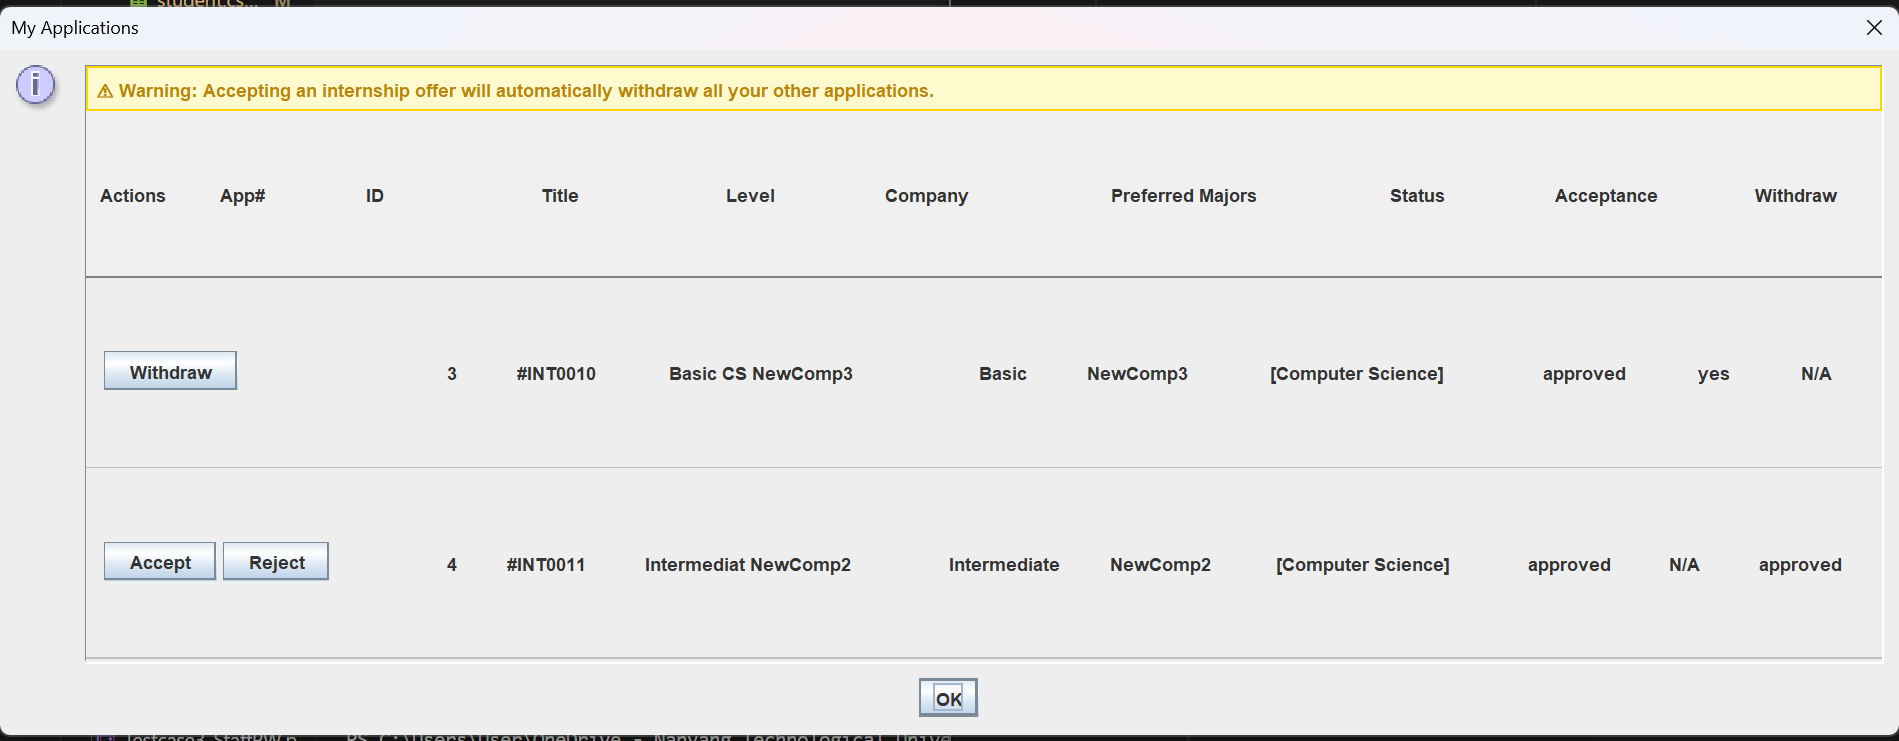
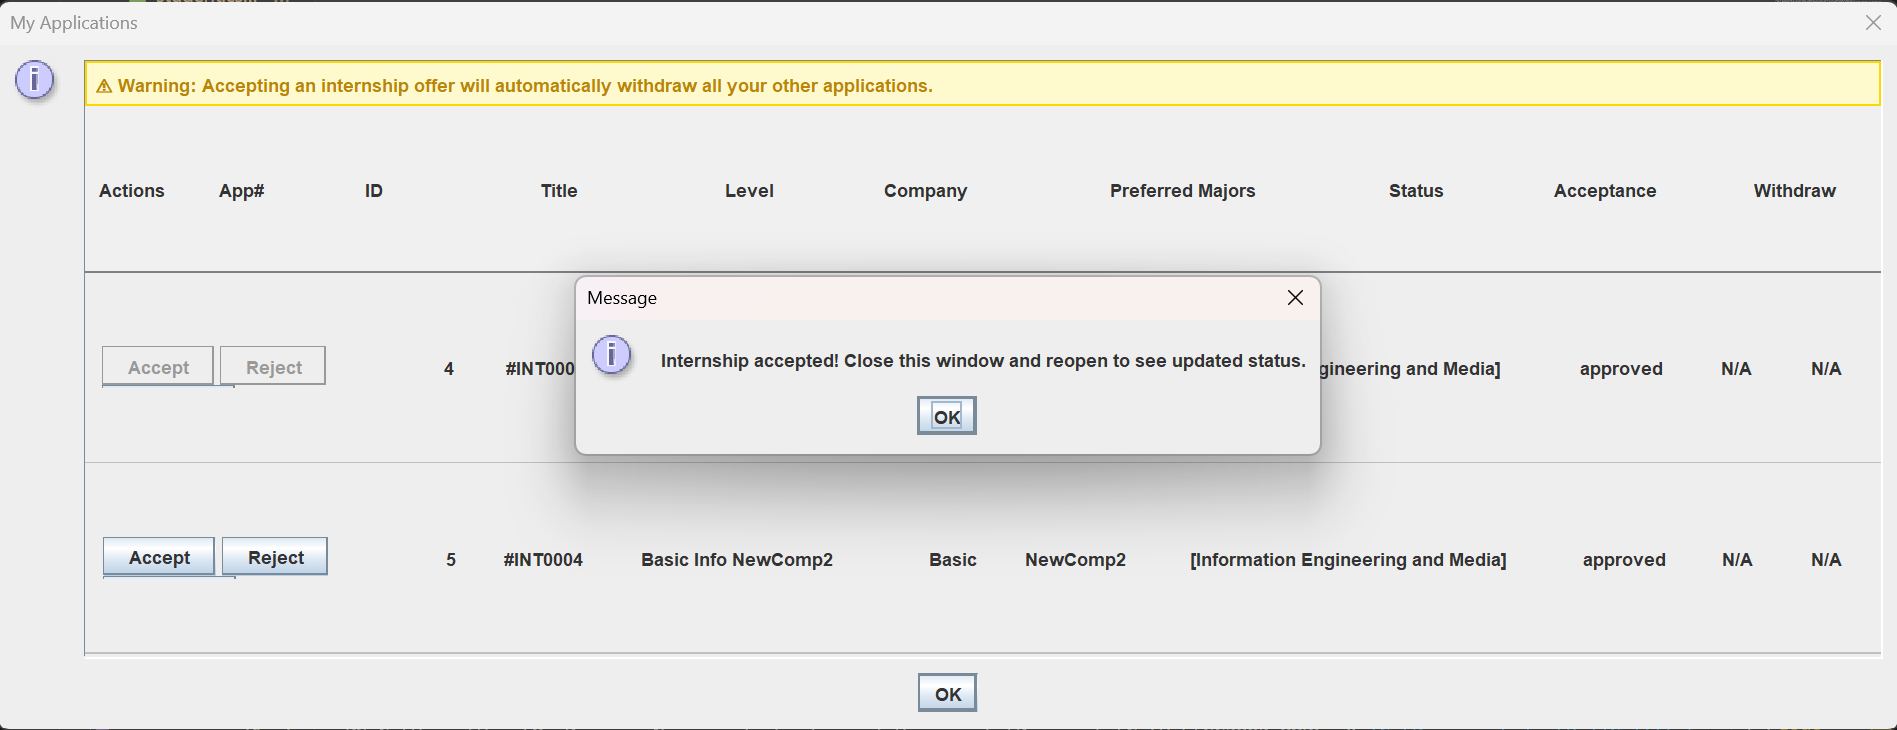
Testcase (except 13 & 16)

diff --git a/Testcases/Testcase_Appendix_A/Test_Appendix_A.md b/Testcases/Testcase_Appendix_A/Test_Appendix_A.md
@@ -139,12 +139,12 @@
 - **Expected Behavior:** System allows accepting one internship placement and automatically withdraws all other applications once a placement is accepted
 - **Actual Result:** 
 - **Failure Indicator:** Student can accept more than one internship placement, or other applications remain active after accepting
-- **Pass:** 
+- **Pass:** Yes
 - **Screenshots:** 
 
-| Multiple Internship Opportunity | Student Accept First | Student Try To Accept Second |
-| ------------------------------- | -------------------- | ---------------------------- | 
-| ![Student View Multiple Internship Op](Testcase9_MultIntOp.png) | ![First Internship Op Accept](Testcase9_FirstAccept.png) | ![Second Internship Op Accept](Testcase9_SecondAccept.png) |
+| Multiple Internship Opportunity | Student Accept First | Updated Status (Note Second Internship Withdrawn Status Is Now Approved) | Student Try To Accept Second |
+| ------------------------------- | -------------------- | ---------------------------- | -----------------------|
+| ![Student View Multiple Internship Op](Testcase9_MultIntOp.png) | ![First Internship Op Accept](Testcase9_FirstAccept.png) | ![Updated Status](Testcase9_UpdatedStatus.png) | ![Second Internship Op Accept](Testcase9_SecondAccept.png) |
 ---
 
 ### Test Case 10: Company Representative Internship Opportunity Creation
@@ -178,9 +178,12 @@
 - **Expected Behavior:** Company Representatives can always access full details of internship opportunities they created, regardless of visibility setting
 - **Actual Result:** 
 - **Failure Indicator:** Opportunity details become inaccessible when visibility is toggled off for their own opportunities
-- **Pass:** 
+- **Pass:** Yes
 - **Screenshots:** 
 
+| Details Always Visible (Details and Visibility Seperate Option) |
+| --------------------------------------------------------------- | 
+| ![Details Visible](Testcase12_DetailsVisible.png) |
 ---
 
 ### Test Case 13: Restriction on Editing Approved Opportunities
@@ -198,12 +201,12 @@
 - **Expected Behavior:** Company Representatives retrieve correct student applications, and update slot availability accurately
 - **Actual Result:** 
 - **Failure Indicator:** Incorrect application retrieval, or slot counts not updating properly
-- **Pass:** 
+- **Pass:** Yes
 - **Screenshots:** 
 
-| Student Applies | Application Retreival | Retrieving when full slot |
-| --------------------- | ------------------------- |
-| ![Application Retrieval](Testcase14_StudentApplication.png) | ![Full Slot]() |
+| Student 1 Applies | Student 2 Applies | Company Representative Retrieve Application | Not Full | Approving Both Student | Student 1 Accept | Student 2 Cannot Accept (Auto Reject)| Full Slot (Because only 1 slot allowed)|
+| --------------------- | ------------ | ------------- | --------- | -------- | --------- | --------- | -------- |
+| ![Student 1 Applies](Testcase14_StudentApplication.png) | ![Student 2 Applies](Testcase14_Student2Application.png) | ![Application Retrieval](Testcase14_AppRetrieval.png) | ![Not Full](Testcase14_NotFull.png) | ![Approving Both Student](Testcase14_Approve1.png) | ![Student 1 Accept](Testcase14_Student1Accept.png) | ![Student 2 Cannot Accept](Testcase14_CannotAccept.png) | ![Full Slot](Testcase14_FullSlot.png)
 ---
 
 ### Test Case 15: Internship Placement Confirmation Status Update
@@ -211,9 +214,11 @@
 - **Expected Behavior:** Placement confirmation status is updated to reflect the actual confirmation condition
 - **Actual Result:** 
 - **Failure Indicator:** System fails to update or incorrectly records the placement confirmation status
-- **Pass:** 
+- **Pass:** Yes
 - **Screenshots:** 
-
+| Student Accept Internship Opportunity | Placement Confirmation Status |
+| ------------------------------------- | ----------------------------- |
+| ![Student Accept](Testcase15_StudentAccept.png) | ![Placement Confirmation Status](Testcase15_AppStatusConfirmed.png) |
 ---
 
 ### Test Case 16: Create, Edit, and Delete Internship Opportunity Listings
@@ -251,7 +256,6 @@
 | All NewComp Internship Opportunity | Student Viewing Internship Opportunity |
 | ---------------------------------- | -------------------------------------- |
 | ![NewComp Internship Op](Testcase18_AllIntOp.png) | ![Student View](Testcase18_StudentView.png) |
-
 ---
 
 ### Test Case 19: Career Center Staff Internship Opportunity Management Withdrawal
@@ -259,9 +263,12 @@
 - **Expected Behavior:** Withdrawal approvals and rejections are processed correctly, with system updates to reflect the decision and slot availability changes
 - **Actual Result:** 
 - **Failure Indicator:** Incorrect or failed processing of withdrawal requests or slot counts not updating properly
-- **Pass:** 
+- **Pass:** Yes
 - **Screenshots:** 
 
+| Student 1 Withdraw From Full Internship Opportunity | Staff Rejects | Withdraw Reject Status Update | Slot still Full | Student 2 Withdraw From Full Internship Opportunity | Staff Approves | Withdraw Approve Status Update | Slot No Longer Full |
+| ---------------------------------- | -------------------------------------- |
+| ![Student 1 Withdraw From Full](Testcase19_StudWithdrawFull.png) | ![Staff Rejects](Testcase19_Reject.png) | ![Withdraw Reject Status](Testcase19_WithdrawRejected.png) | ![Slot Still Full](Testcase19_Full.png) | ![Student 2 WIthdraw From Full](Testcase19_Stud2WithdrawFull.png) | ![Staff Approves](Testcase19_Approve.png) | ![Withdraw Approve Status](Testcase19_WithdrawApproved.png) | ![Slot Not Full](Testcase19_NotFull.png) |
 ---
 
 ### Test Case 20: Generate and Filter Internship Opportunities
@@ -269,9 +276,12 @@
 - **Expected Behavior:** Accurate report generation with options to filter by placement status, major, company, level, and other specified categories
 - **Actual Result:** 
 - **Failure Indicator:** Reports are inaccurate, incomplete, or filtering does not work as expected
-- **Pass:** 
+- **Pass:** Yes
 - **Screenshots:** 
 
+| NewComp Internship List (3 Full)| NewComp2 Internship List (0 Full)| Generated Overview Report (No Filter) | NewComp filtered Report | Basic Internship Level Report | Info and CS Major Filtered Report | Added 2026 Internship Opportunity | 2026 Internship Report | Filter Panel (For Upcoming image) |2025, Only CS or Civil Engineering or Chinese Majors, Advanced Level, From NewComp2 |
+| ------------------------------------- |
+| ![NewComp Internship List](Testcase20_NewCompInternList.png) | ![NewComp2 Internship List](Testcase20_NewComp2InternList.png) | ![Generated Overview Report](Testcase20_OverviewReport.png) | ![NewComp Report](Testcase20_NewCompReport.png) | ![Basic Internship Level Report](Testcase20_BasicInternLevelReport.png) | ![Info and CS Major Filtered Report](Testcase20_InfoAndCSMajorReport.png) | ![Added 2026 Internship Opportunity](Testcase20_Added2026InternOp.png) | ![2026 Internship Report](Testcase20_2026Report.png) | ![Filter Panel](Testcase20_FilterPanel.png) | ![Assorted Filters](Testcase20_Filtered.png) |
 ---
 
 ## Notes

diff --git a/Code/Output_report/Report0003.md b/Code/Output_report/Report0003.md
@@ -1,0 +1,45 @@
+# ? PREVALENT INTERNSHIP REPORT - #3
+
+_Generated: 2025-11-12 01:15_
+
+**Total internships:** 8
+
+## Levels
+
+| Level | Count | % | Bar |
+|---|---:|---:|---|
+| Advanced | 1 | 12.5% | `|???                 |` |
+| Intermediate | 2 | 25.0% | `|?????               |` |
+| Basic | 5 | 62.5% | `|?????????????       |` |
+
+## Visibility & Fullness
+
+| Metric | Count | % | Bar |
+|---|---:|---:|---|
+| Visible | 8 | 100.0% | `|????????????????????|` |
+| Full | 3 | 37.5% | `|????????            |` |
+
+**Total slots across all internships:** 8
+
+## Top Majors
+
+| Major | Count | % | Bar |
+|---|---:|---:|---|
+| Information Engineering and Media | 2 | 25.0% | `|????????????????????|` |
+| Computer Science | 1 | 12.5% | `|??????????          |` |
+| Data Science and Artificial Intelligence | 1 | 12.5% | `|??????????          |` |
+| Chinese | 1 | 12.5% | `|??????????          |` |
+| Computing | 1 | 12.5% | `|??????????          |` |
+| Computer Engineering | 1 | 12.5% | `|??????????          |` |
+| Business | 1 | 12.5% | `|??????????          |` |
+
+## Top Companies
+
+| Company | Count | % | Bar |
+|---|---:|---:|---|
+| 1. NewComp | 5 | 62.5% | `|????????????????????|` |
+| 2. NewComp2 | 3 | 37.5% | `|????????????        |` |
+
+---
+
+*Generated by the internship reporting system.*

diff --git a/Code/Output_report/Report0002.md b/Code/Output_report/Report0002.md
@@ -1,0 +1,42 @@
+# ? PREVALENT INTERNSHIP REPORT - #2
+
+_Generated: 2025-11-12 01:10_
+
+**Total internships:** 5
+
+## Levels
+
+| Level | Count | % | Bar |
+|---|---:|---:|---|
+| Advanced | 0 | 0.0% | `|                    |` |
+| Intermediate | 0 | 0.0% | `|                    |` |
+| Basic | 5 | 100.0% | `|????????????????????|` |
+
+## Visibility & Fullness
+
+| Metric | Count | % | Bar |
+|---|---:|---:|---|
+| Visible | 5 | 100.0% | `|????????????????????|` |
+| Full | 3 | 60.0% | `|????????????        |` |
+
+**Total slots across all internships:** 5
+
+## Top Majors
+
+| Major | Count | % | Bar |
+|---|---:|---:|---|
+| Information Engineering and Media | 2 | 40.0% | `|????????????????????|` |
+| Computer Science | 1 | 20.0% | `|??????????          |` |
+| Data Science and Artificial Intelligence | 1 | 20.0% | `|??????????          |` |
+| Computer Engineering | 1 | 20.0% | `|??????????          |` |
+
+## Top Companies
+
+| Company | Count | % | Bar |
+|---|---:|---:|---|
+| 1. NewComp | 4 | 80.0% | `|????????????????????|` |
+| 2. NewComp2 | 1 | 20.0% | `|?????               |` |
+
+---
+
+*Generated by the internship reporting system.*
